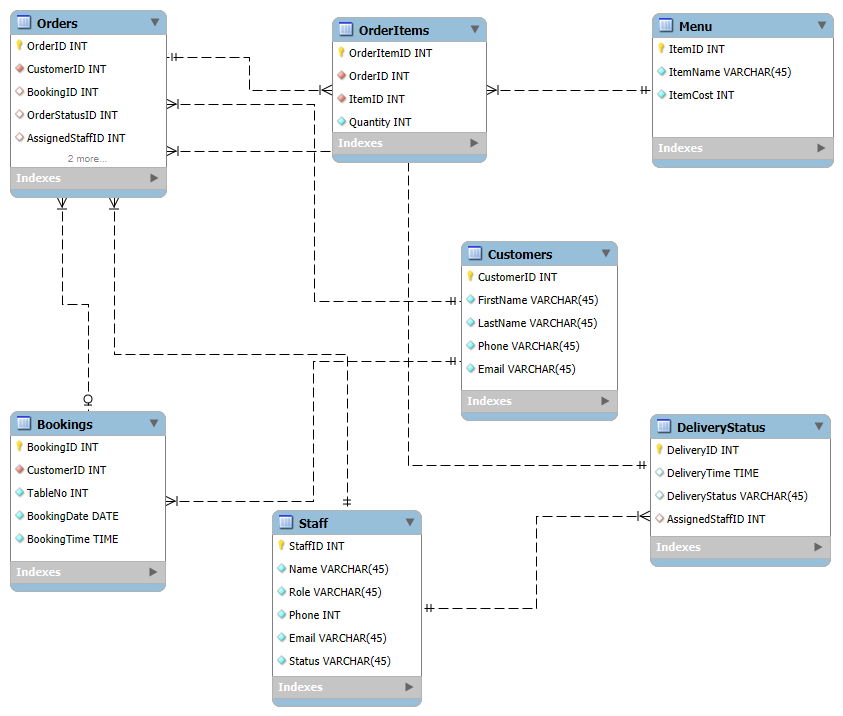
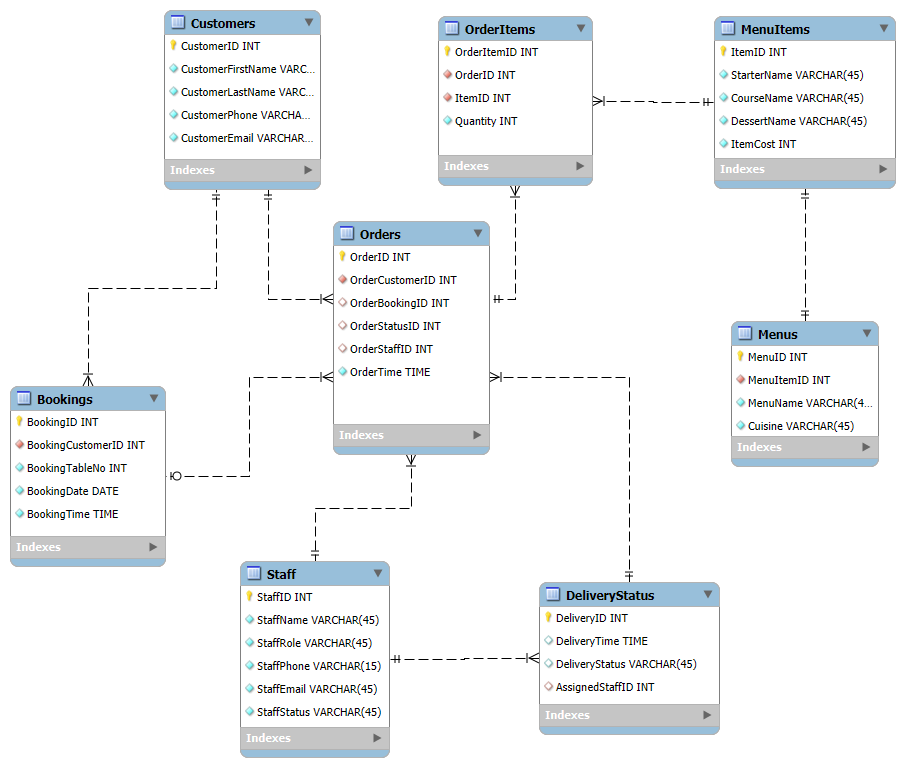
- Changed "Menu" table to "MenuItems". - Added "Menus" table, which contains each type of menu. - Menus table references MenuItems for each item's details. - Populated data with an INSERT script, and added to this repo in the appropriately-named folder. - Updated the EER, and changed the database to

diff --git a/README.md b/README.md
@@ -7,3 +7,30 @@ META DB Engineering project
      - Otained from Workbench Forward Engineering
 - MYSQL Workbench Model File
 - EER Diagram exported as a PNG from Workbench
+
+## MODULE 2 TASKS:
+- ~~Change Menu table to MenuItems, containing the Course, Starter, and Dessert name attributes.
+	- ~~Add Menus table, reference the MenuItemsID as a Foreign Key.
+		- ~~Include the MenuName, and Cuisine in this table as attributes.
+- ~~Populate the tables with data... (META why the fuck isn't this included?)
+- ~~Re Forward Engineer the new EER, update the SQL file and PNG.
+	- ~~~Push changes to GitHub, and commit.
+- ~~Proceed with the next tasks
+
+Task 1:
+Create a virtual table called OrdersView that focuses on OrderID, Quantity, and Cost columns from the Orders table. Filter for all orders with a quantity > 2 only.
+
+Task 2:
+Use a JOIN clause to extract information from four tables on all customers with a cost more than $150. 
+- Customers table: Customer ID and Full Name
+- Orders table: The Order ID and Cost
+- Menus table: The menus name
+- MenuItems table: Course name and starter name
+
+Sort the result by the lowest cost amount.
+
+Task 3:
+Find all menu items for which at least 3 orders have been placed. Create a subquery that lists the menu names from the menus table for any order with a quantity >2.
+- Use the ANY operator
+- The outer query should be used to select the Menu name from the menus table.
+- The inner query should check the order quantity.
